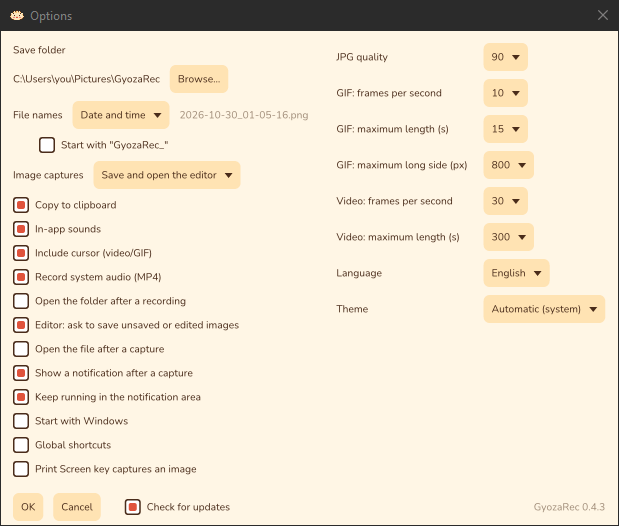
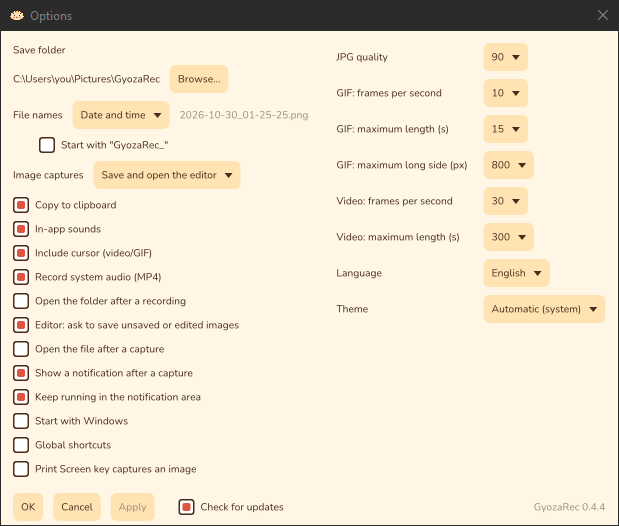
docs: 0.4.4 changelog, screenshots and version

Changed region(s): [[0.1535, 0.9125, 0.4604, 1.0]]

diff --git a/CHANGELOG.md b/CHANGELOG.md
@@ -2,14 +2,16 @@
 
 All notable changes to GyozaRec are listed here. The format follows [Keep a Changelog](https://keepachangelog.com/en/1.1.0/), and versions follow [Semantic Versioning](https://semver.org/).
 
-## [Unreleased]
+## [0.4.4] - 2026-10-30
 
 ### Added
 - Icons on the toolbar buttons: a camera to capture, a red dot to record, the area, the format (image, video, GIF), a timer for the delay and a cog for Options.
+- Apply in Options, next to OK and Cancel: saves and applies the settings and keeps the window open; it is off until something changes.
 
 ### Changed
 - Choosing a theme in Options shows it at once; Cancel goes back to the previous one.
 - Themes have names: Gyoza (light), Slate (dark) and Toasted (dark, the former Dark). Automatic now uses Slate when Windows is dark.
+- Gyoza (light) leaves the title bars to Windows, as before 0.4.2; only a dark theme picked by hand darkens them.
 
 ## [0.4.3] - 2026-10-30
 
@@ -99,6 +101,7 @@ All notable changes to GyozaRec are listed here. The format follows [Keep a Chan
 - Interface in nine languages, detected from Windows.
 - Per-user MSI installer and portable zip.
 
+[0.4.4]: https://github.com/martindavinci/GyozaRec/compare/v0.4.3...v0.4.4
 [0.4.3]: https://github.com/martindavinci/GyozaRec/compare/v0.4.2...v0.4.3
 [0.4.2]: https://github.com/martindavinci/GyozaRec/compare/v0.4.1...v0.4.2
 [0.4.1]: https://github.com/martindavinci/GyozaRec/compare/v0.4.0...v0.4.1
